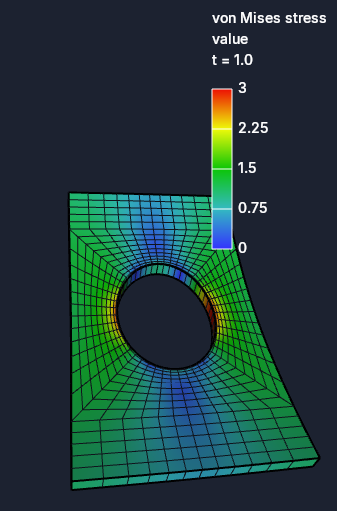
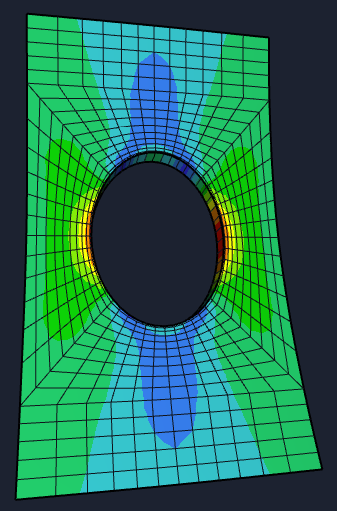
About picture with iso-areas, without the legend, filled by the mesh
Claude-Session: https://claude.ai/code/session_01LghNiFLC3H2KXNBfovJ6QF

diff --git a/MeshEditor.Avalonia.Tests/AboutPictureTests.cs b/MeshEditor.Avalonia.Tests/AboutPictureTests.cs
@@ -295,7 +295,7 @@ namespace MeshEditor.AvaloniaUI.Tests
 			double y = p.y + 0.10 * p.y + 0.08 * p.y * q;
 			z += 0.22 * (p.y / halfHeight) * (p.y / halfHeight);
 			// the top tilted away from the camera, turned a bit around the vertical axis
-			double tilt = setting("ABOUT_PICTURE_TILT", -25) * Math.PI / 180, turn = setting("ABOUT_PICTURE_TURN", 12) * Math.PI / 180;
+			double tilt = setting("ABOUT_PICTURE_TILT", -15) * Math.PI / 180, turn = setting("ABOUT_PICTURE_TURN", 12) * Math.PI / 180;
 			(y, z) = (y * Math.Cos(tilt) - z * Math.Sin(tilt), y * Math.Sin(tilt) + z * Math.Cos(tilt));
 			(x, z) = (x * Math.Cos(turn) + z * Math.Sin(turn), -x * Math.Sin(turn) + z * Math.Cos(turn));
 			return (x, y, z);
